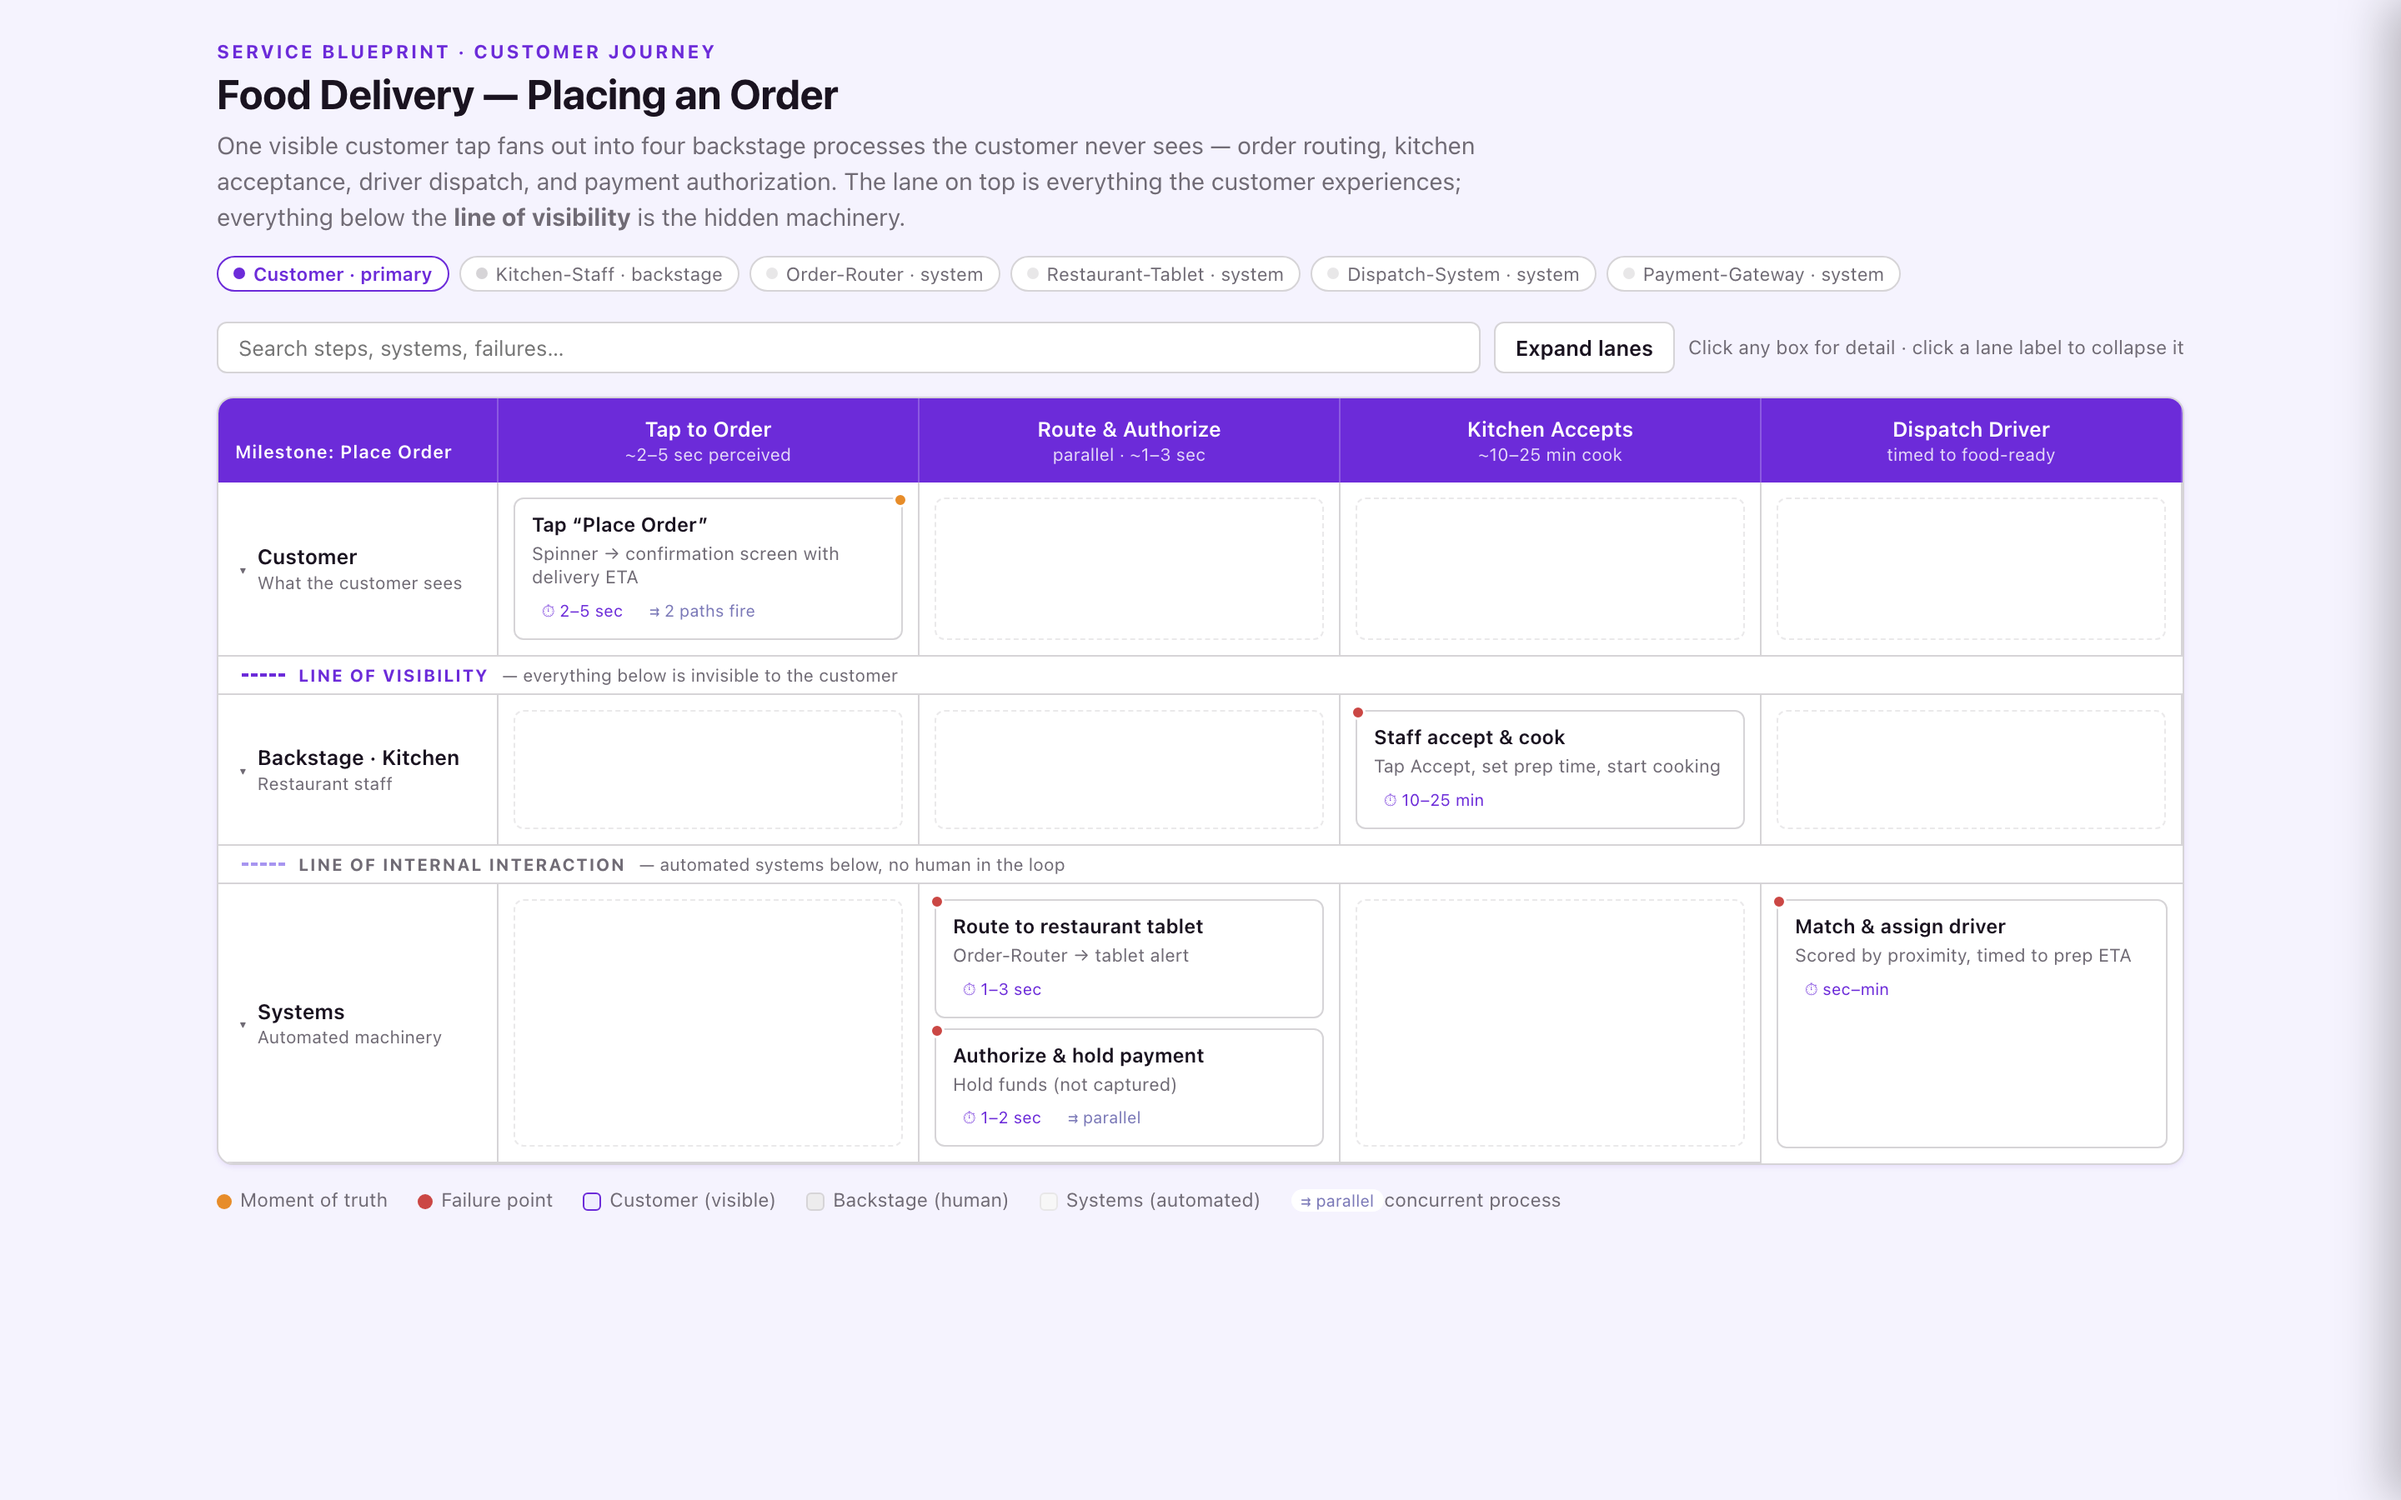
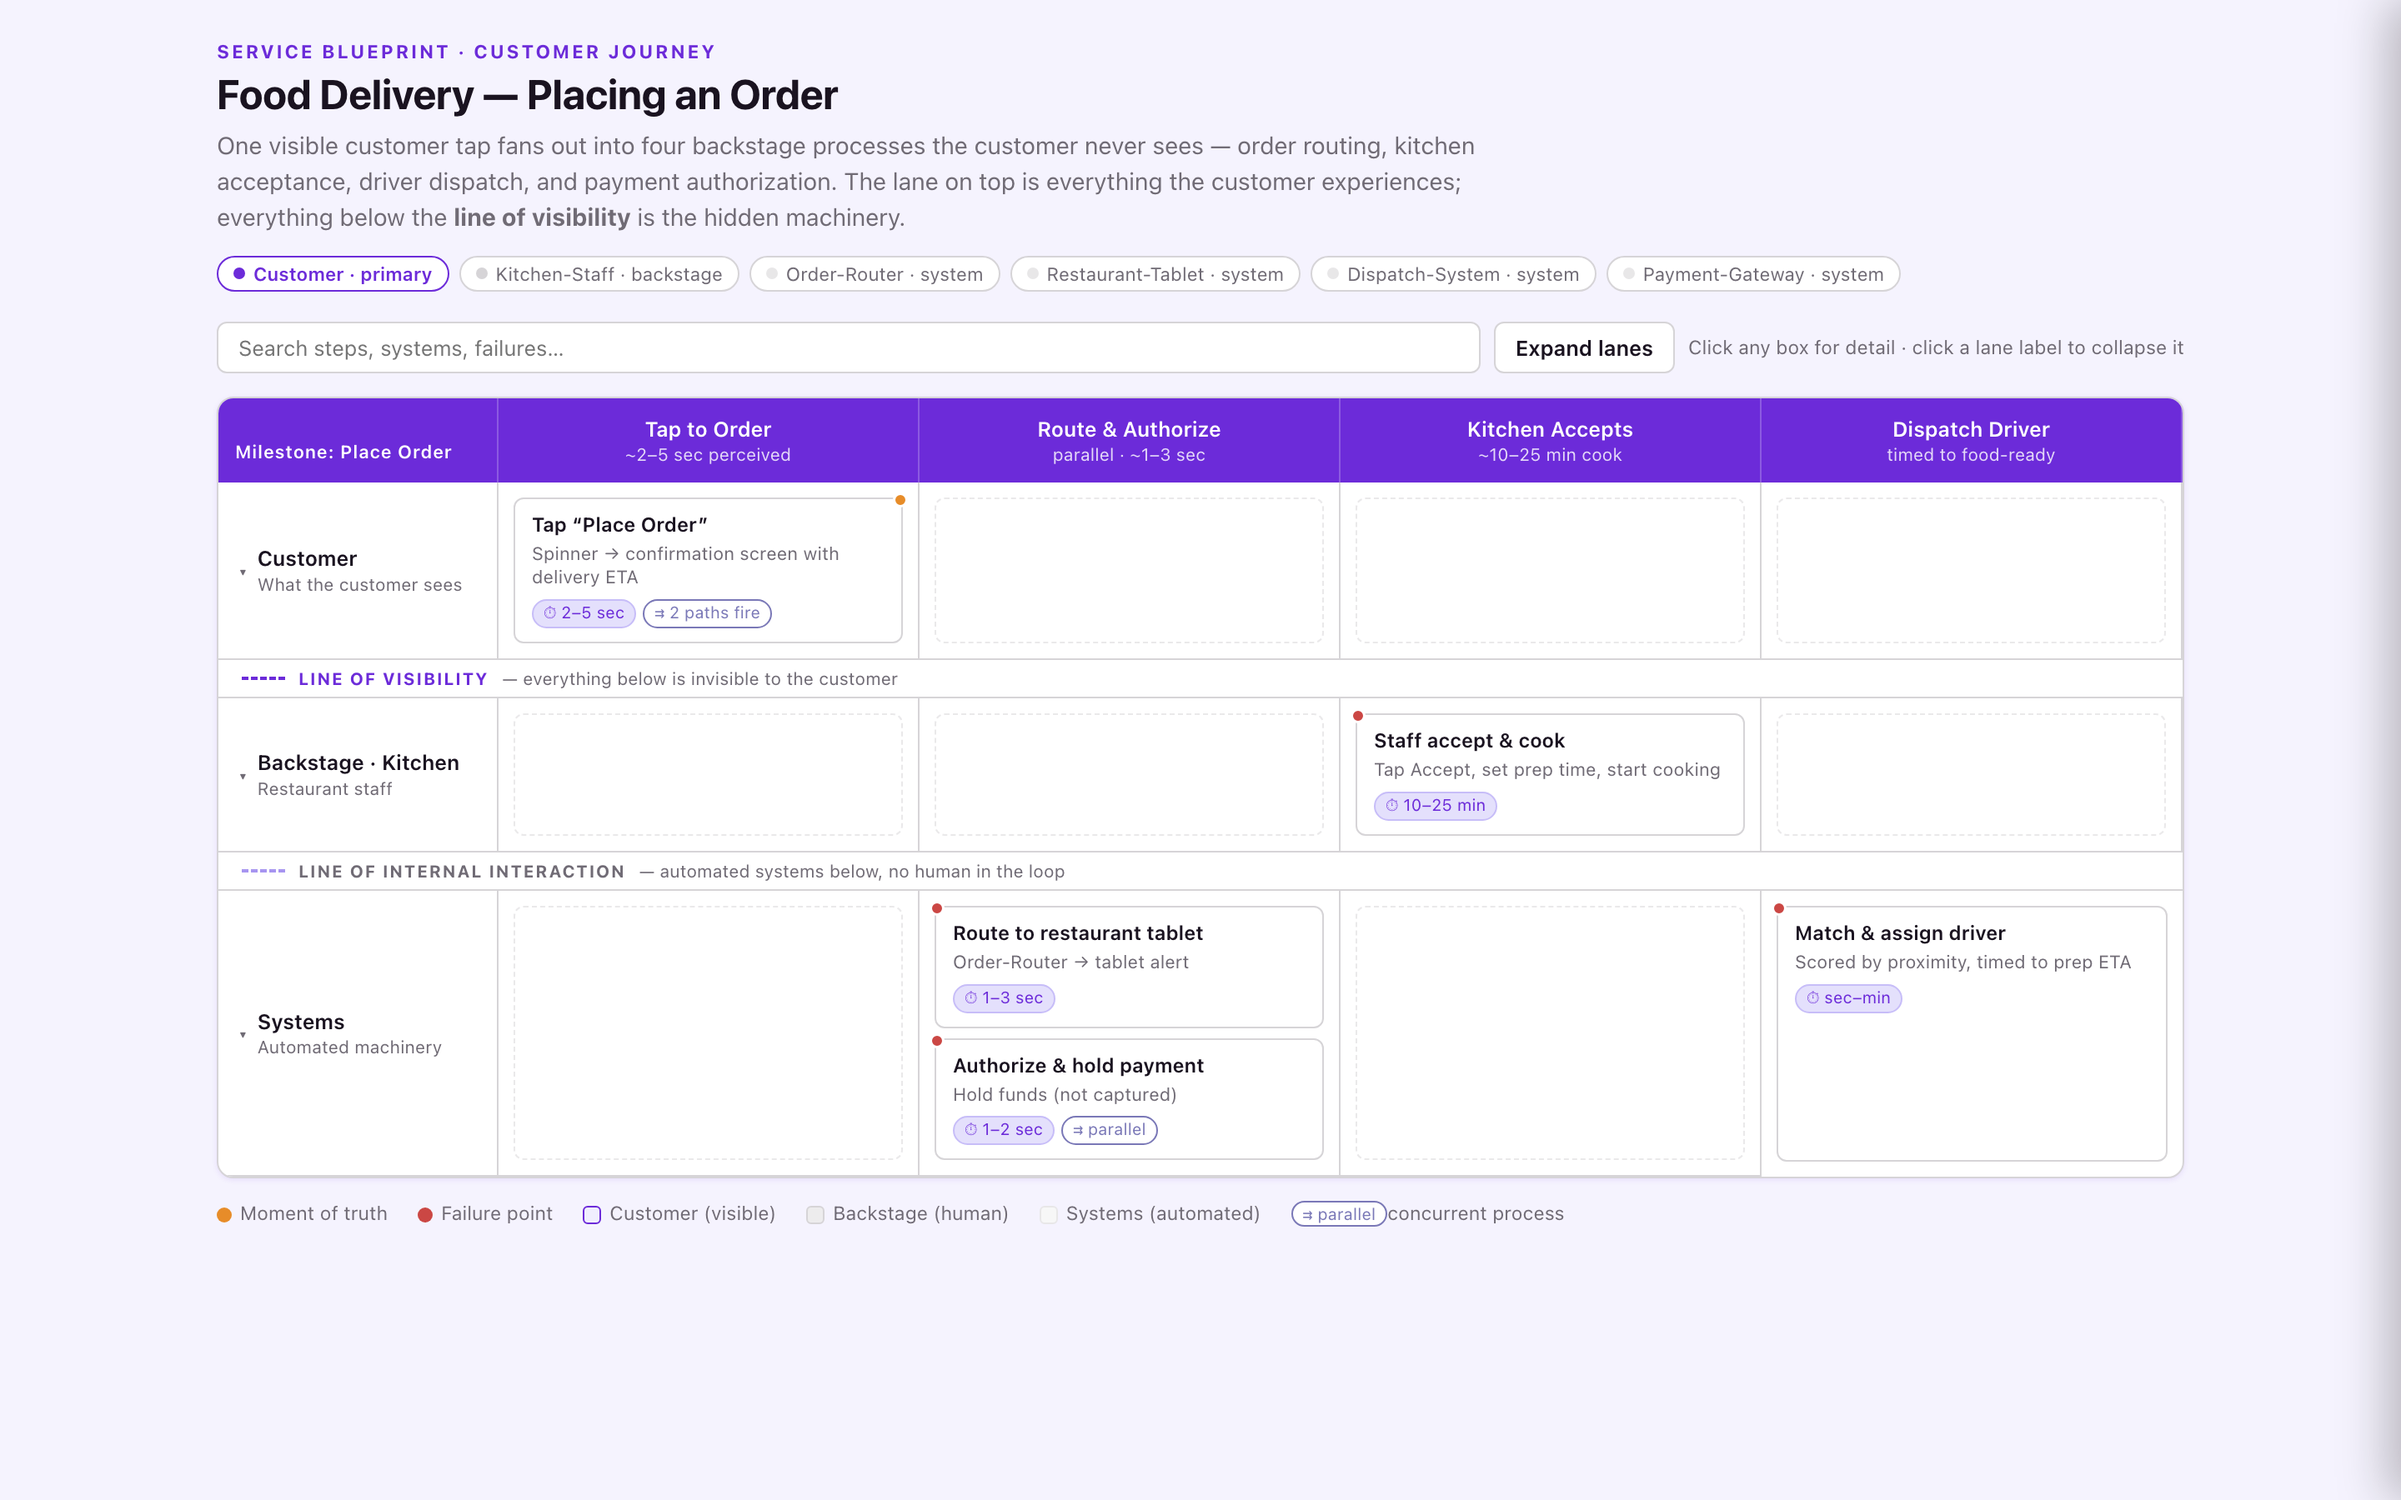
Update site: theming section, canonical step example, refreshed renderings
The demos section gains a Theming block — the palette is four seed values and
one command, which is worth showing rather than claiming. The format example
now uses a step from the canonical journey (the retired payments map was still
on the page). All eight renderings refreshed: their themes now live in the
marked region written by `journey.sh theme`, and a swimlane whose focus rings
and tags had been rendering with dangling custom properties is fixed.

diff --git a/index.html b/index.html
@@ -238,7 +238,7 @@ footer .fbottom{display:flex;justify-content:space-between;flex-wrap:wrap;gap:12
     <div class="cap"><h3>A living document</h3><p>It's a file that persists across sessions and grows by diff. Come back in three weeks and it's still your collaborator, not a blank slate.</p></div>
     <div class="cap"><h3>Provenance, automatically</h3><p>Every field tracks what you asserted, what's evidence-backed, and what the model guessed — so it won't dress a guess up as a statistic.</p></div>
   </div>
-  <div class="snippet"><span class="c">### Step: wait-for-bank-verification</span><br>- persona: [Maya]<br>- <span class="k">emotion</span>: Anxiety → suspicion → abandonment<br>- <span class="k">duration</span>: 3 business days<br>- <span class="k">painPoint</span>: "No feedback during the wait — most people think it's broken"<br>- <span class="k">failureMode</span>: Assumes verification failed and abandons setup<br>- <span class="k">momentOfTruth</span>: The single biggest drop-off point in the journey</div>
+  <div class="snippet"><span class="c">### Step: wait-in-silence</span><br>- persona: [Maya, Recruiter, Hiring Manager, ATS]<br>- <span class="k">emotion</span>: Hope curdling into anxiety, then resignation<br>- <span class="k">emotionValence</span>: -2<br>- <span class="k">waitTime</span>: Days to several weeks, often indefinite<br>- <span class="k">handoff</span>: Recruiter → Hiring Manager for shortlist review<br>- <span class="k">bottleneck</span>: Hiring Manager review capacity<br>- <span class="k">lineOfVisibility</span>: Status changes exist inside the ATS and are never exposed<br>- <span class="k">momentOfTruth</span>: This silence is the make-or-break of the whole experience</div>
 </div></section>
 
 <section id="schema"><div class="wrap">
@@ -263,12 +263,20 @@ footer .fbottom{display:flex;justify-content:space-between;flex-wrap:wrap;gap:12
     <h3>The rendering is a <em>choice</em>, not an output.</h3>
     <p>These three are the same 15 steps as the map above — one source file, asked three different questions.
        Nothing is redrawn by hand: nodes, durations and coverage are read out of the journey at build time,
-       and every colour comes from one shared token file, so a theme is a five-value swap.</p></div>
+       and every colour comes from one shared token file.</p></div>
   <div class="gallery trio">
     <div class="shot"><img src="img/flow-graph.png" alt="Flow graph of the journey"><div class="body"><p class="say">Show me where this journey actually forks — I don't buy that it's a straight line.</p><a class="view" href="renderings/job-application--flow-graph.html">Explore live →</a></div></div>
     <div class="shot"><img src="img/time-to-scale.png" alt="Journey drawn to true time scale"><div class="body"><p class="say">Draw the time to scale. I want to see how much of this is just waiting.</p><a class="view" href="renderings/job-application--time-to-scale.html">Explore live →</a></div></div>
     <div class="shot"><img src="img/coverage-xray.png" alt="Coverage and provenance matrix"><div class="body"><p class="say">Where is this map thin — and which parts of it are guesses?</p><a class="view" href="renderings/job-application--coverage-xray.html">Explore live →</a></div></div>
   </div>
+
+  <div class="sub-head"><div class="kicker">Theming</div>
+    <h3>Your colours are <em>four values</em>, not a rewrite.</h3>
+    <p>Renderings hold no literal colours — only token names. Re-seed the top tier and the whole
+       palette re-derives: lane tints, the valence scale, rules, shadows, dark mode. Semantic
+       colours deliberately stay put, because a <em>moment of truth</em> marker that repaints itself
+       when your logo changes isn't a marker.</p></div>
+  <div class="snippet"><span class="c"># your brand</span><br>journey.sh theme map.html --primary <span class="k">'#6C2BD9'</span> --surface <span class="k">'#fff'</span> --text <span class="k">'#1a1320'</span><br><br><span class="c"># or one of the presets</span><br>journey.sh theme map.html --preset <span class="k">paper</span>&nbsp;&nbsp;<span class="c"># paper · midnight · blueprint · contrast</span></div>
 </div></section>
 
 <section><div class="narrow">

diff --git a/renderings/food-delivery--swimlane-themed.html b/renderings/food-delivery--swimlane-themed.html
@@ -1,5 +1,5 @@
 <!DOCTYPE html>
-<html lang="en" data-theme="light">
+<html data-theme="light" lang="en">
 <head>
 <meta charset="UTF-8">
 <meta name="viewport" content="width=device-width, initial-scale=1.0">
@@ -218,19 +218,25 @@
   :root{ --dur-fast: 0ms; --dur: 0ms; --dur-slow: 0ms; }
 }
 /* tokens:end */
-
-  /* ── Tier 1 · the entire theme. Four seed values and a text pairing; every
-     lane tint, ramp, shadow and divider below is derived from them by
-     journey-tokens.css. This is what white-labelling costs. ── */
-  :root {
-    --brand-primary:    #6C2BD9;
-    --brand-surface:    #ffffff;
-    --brand-text:       #1a1320;
-    --brand-on-primary: #ffffff;   /* the primary is dark, so its text is light */
-  }
+/* theme:begin */
+/* Tier 1 override — the whole theme. Every colour in this file derives
+   from these; nothing below Tier 1 may hold a literal. Written by
+   `journey.sh theme`; edit here or re-run the command. */
+:root{
+  --brand-primary: #6C2BD9;
+  --brand-surface: #ffffff;
+  --brand-text: #1a1320;
+  --brand-on-primary: #ffffff;
+}
+/* theme:end */
 
   /* ── Tier 3 · local names, all derived ── */
   :root {
+    /* tints the file's own rules still ask for by name — derived, not hand-mixed */
+    --purple-95:         var(--accent-soft);
+    --purple-90:         color-mix(in oklab, var(--accent) 24%, var(--bg));
+    --purple-80:         color-mix(in oklab, var(--accent) 34%, var(--bg));
+
     --page:              color-mix(in oklab, var(--bg) 94%, var(--accent));
     --surface:           var(--bg);
     --text:              var(--ink);

diff --git a/renderings/job-application--storyboard.html b/renderings/job-application--storyboard.html
@@ -1,5 +1,5 @@
 <!DOCTYPE html>
-<html lang="en" data-theme="light">
+<html data-theme="light" lang="en">
 <head>
 <meta charset="utf-8">
 <meta name="viewport" content="width=device-width, initial-scale=1">
@@ -212,16 +212,21 @@
   :root{ --dur-fast: 0ms; --dur: 0ms; --dur-slow: 0ms; }
 }
 /* tokens:end */
+/* theme:begin */
+/* Tier 1 override — the whole theme. Every colour in this file derives
+   from these; nothing below Tier 1 may hold a literal. Written by
+   `journey.sh theme`; edit here or re-run the command. */
+:root{
+/* paper — a warm printed artifact. Ignores the reader's theme on purpose:
+   a storyboard is a thing you print. mode: light */
+--brand-surface:    oklch(96.5% 0.011 85);
+--brand-text:       oklch(19% 0.006 80);
+--brand-primary:    oklch(58% 0.098 62);
+--brand-negative:   oklch(50% 0.155 28);
+  --brand-surface: oklch(96.5% 0.011 85);
+}
+/* theme:end */
 
-  /* Tier 1 override — the storyboard is a paper artifact, so it seeds warm
-     paper and prints the same in either system theme. Four values; everything
-     below derives from them. */
-  :root{
-    --brand-surface: oklch(96.5% 0.011 85);
-    --brand-text:    oklch(19% 0.006 80);
-    --brand-primary: oklch(58% 0.098 62);
-    --brand-negative: oklch(50% 0.155 28);
-  }
   /* Tier 3 — local names, all of them derived */
   :root{
     --rule:      var(--line);

diff --git a/renderings/job-application--swimlane-zoompan.html b/renderings/job-application--swimlane-zoompan.html
@@ -1,5 +1,5 @@
 <!DOCTYPE html>
-<html lang="en" data-theme="light">
+<html data-theme="light" lang="en">
 <!-- Job Application Portal journey — Swimlane × Zoom-pan.
      Rendering: Swimlane (service blueprint). Interaction: Zoom + Pan (user override).
      Self-contained, zero dependencies. Built for big-wall workshop display. -->
@@ -215,14 +215,17 @@
   :root{ --dur-fast: 0ms; --dur: 0ms; --dur-slow: 0ms; }
 }
 /* tokens:end */
-
-/* Tier 1 — this rendering ships light; reseeding needs the theme pinned
-   (see journey-tokens.css § OVERRIDING TIER 1) */
+/* theme:begin */
+/* Tier 1 override — the whole theme. Every colour in this file derives
+   from these; nothing below Tier 1 may hold a literal. Written by
+   `journey.sh theme`; edit here or re-run the command. */
 :root{
-  --brand-primary:#2563eb;
-  --brand-surface:#f5f6f8;
-  --brand-text:#1a1f2b;
+  --brand-primary: #2563eb;
+  --brand-surface: #f5f6f8;
+  --brand-text: #1a1f2b;
 }
+/* theme:end */
+
 /* Tier 3 — local names, every one derived */
 :root{
   --lane-actions-bg:var(--layer-customer-bg);  --lane-actions-accent:var(--layer-customer-ln);

diff --git a/renderings/job-application--timeline-dark.html b/renderings/job-application--timeline-dark.html
@@ -1,5 +1,5 @@
 <!DOCTYPE html>
-<html lang="en" class="dark" data-theme="dark">
+<html data-theme="dark" lang="en" class="dark">
 <head>
 <meta charset="UTF-8">
 <meta name="viewport" content="width=device-width, initial-scale=1.0">
@@ -219,6 +219,8 @@
   :root{ --dur-fast: 0ms; --dur: 0ms; --dur-slow: 0ms; }
 }
 /* tokens:end */
+/* theme:begin */
+/* theme:end */
 
   /* Tier 3 — this rendering ships dark (data-theme on <html>); every value
      below resolves through journey-tokens.css, nothing is a literal. */

diff --git a/renderings/job-application--flow-graph.html b/renderings/job-application--flow-graph.html
@@ -213,6 +213,8 @@
   :root{ --dur-fast: 0ms; --dur: 0ms; --dur-slow: 0ms; }
 }
 /* tokens:end */
+/* theme:begin */
+/* theme:end */
 
 /* ── Tier 3 · component scope ─────────────────────────────────────────── */
 :root{

diff --git a/renderings/job-application--multiview.html b/renderings/job-application--multiview.html
@@ -218,6 +218,8 @@
   :root{ --dur-fast: 0ms; --dur: 0ms; --dur-slow: 0ms; }
 }
 /* tokens:end */
+/* theme:begin */
+/* theme:end */
 
   /* No Tier 1 override: this one is the default-palette example, and it follows
      the reader's own light/dark preference. The hand-written light/dark pair it

diff --git a/renderings/job-application--coverage-xray.html b/renderings/job-application--coverage-xray.html
@@ -213,6 +213,8 @@
   :root{ --dur-fast: 0ms; --dur: 0ms; --dur-slow: 0ms; }
 }
 /* tokens:end */
+/* theme:begin */
+/* theme:end */
 
 /* ── Tier 3 ── */
 :root{

diff --git a/renderings/job-application--time-to-scale.html b/renderings/job-application--time-to-scale.html
@@ -213,6 +213,8 @@
   :root{ --dur-fast: 0ms; --dur: 0ms; --dur-slow: 0ms; }
 }
 /* tokens:end */
+/* theme:begin */
+/* theme:end */
 
 /* ── Tier 3 ── */
 :root{
